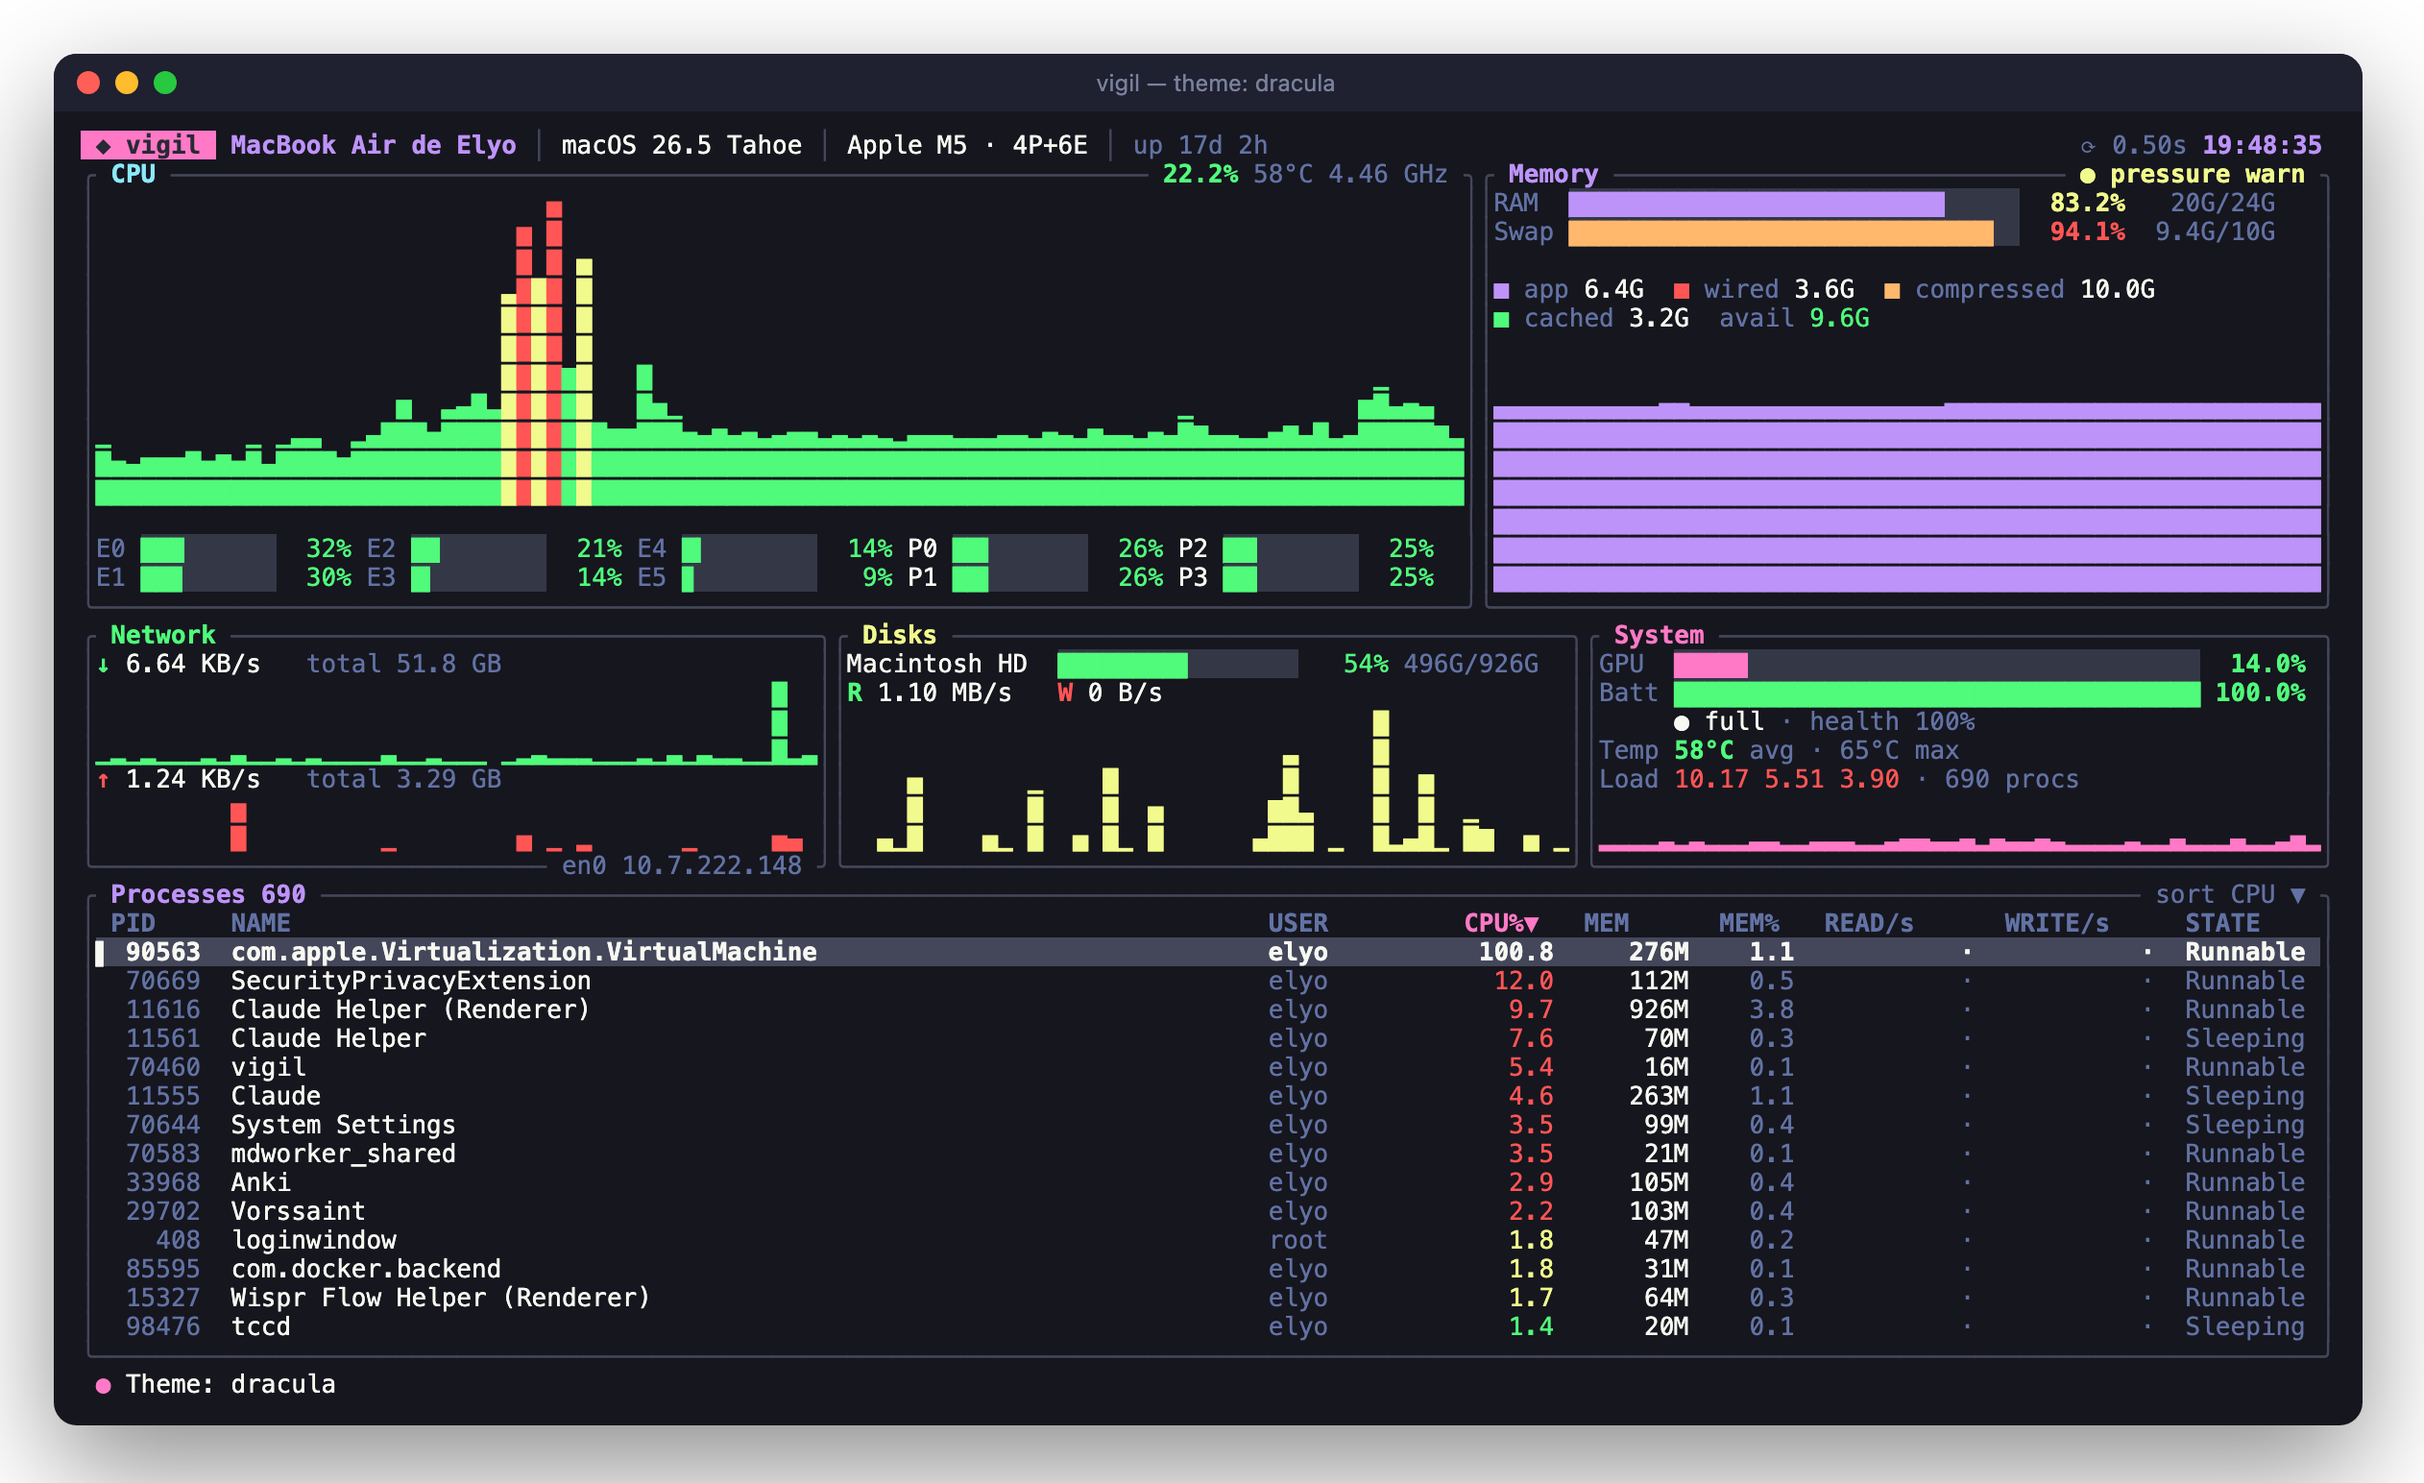
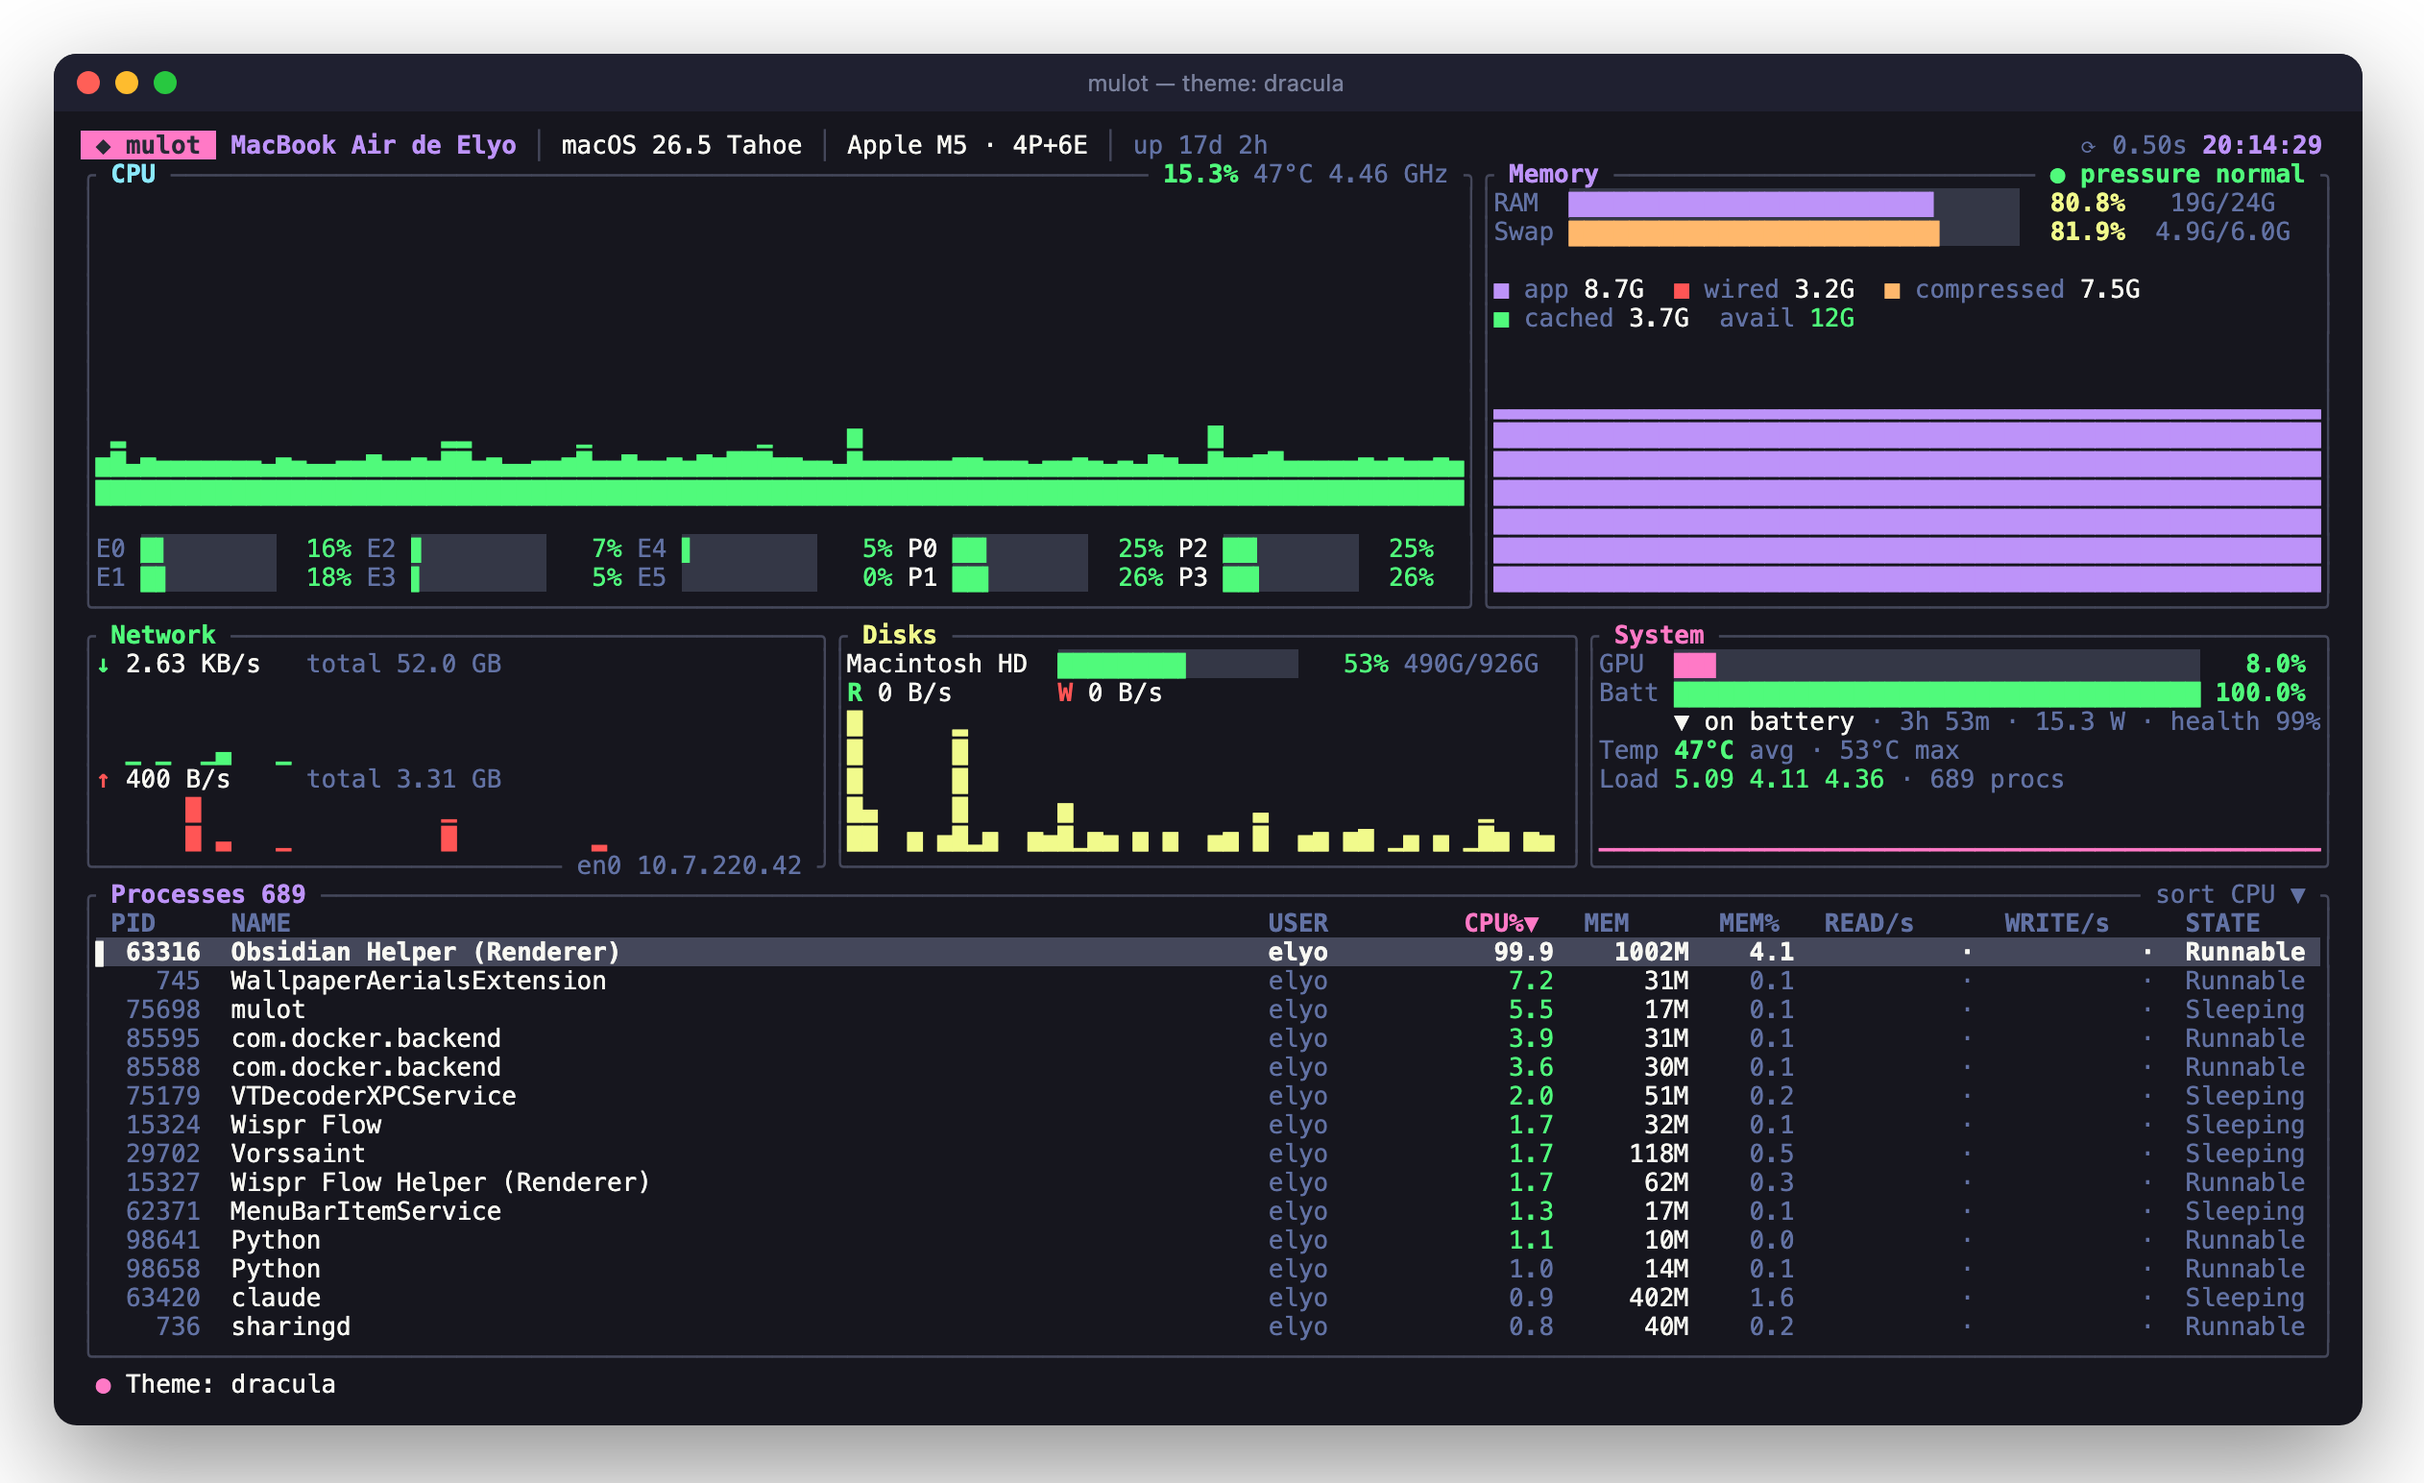
mulot 0.2.0: rename from vigil, auto-bump the Homebrew tap
- Binary, crate, formula, MULOT_THEME env var and JSON field renamed
- Release workflow pushes Formula/mulot.rb to ElyOgl/homebrew-tap via a
  tap-only write deploy key (TAP_DEPLOY_KEY) instead of a personal token
- CHANGELOG, refreshed screenshots

diff --git a/src/main.rs b/src/main.rs
@@ -1,4 +1,4 @@
-//! vigil: a fast, beautiful terminal system monitor.
+//! mulot: a fast, beautiful terminal system monitor.
 
 mod app;
 mod collector;
@@ -20,14 +20,14 @@ use crate::collector::{Collector, Sample, StaticInfo};
 use crate::theme::ThemeName;
 
 #[derive(Parser, Debug)]
-#[command(name = "vigil", version, about, long_about = None)]
+#[command(name = "mulot", version, about, long_about = None)]
 struct Cli {
     /// Refresh interval in milliseconds (250–10000).
     #[arg(short, long, default_value_t = 1000, value_parser = clap::value_parser!(u64).range(250..=10_000))]
     interval: u64,
 
     /// Color theme (default: auto-detected from the terminal).
-    #[arg(short, long, value_enum, env = "VIGIL_THEME")]
+    #[arg(short, long, value_enum, env = "MULOT_THEME")]
     theme: Option<ThemeName>,
 
     /// Initial process sort column.
@@ -45,7 +45,7 @@ struct Cli {
 
 #[derive(Serialize)]
 struct Report<'a> {
-    vigil_version: &'static str,
+    mulot_version: &'static str,
     system: &'a StaticInfo,
     #[serde(flatten)]
     sample: &'a Sample,
@@ -95,7 +95,7 @@ fn print_json(top: usize) -> Result<()> {
     sample.processes.sort_by(|a, b| b.cpu.total_cmp(&a.cpu));
     sample.processes.truncate(top);
     let report = Report {
-        vigil_version: env!("CARGO_PKG_VERSION"),
+        mulot_version: env!("CARGO_PKG_VERSION"),
         system: collector.info(),
         sample: &sample,
     };

diff --git a/src/ui.rs b/src/ui.rs
@@ -150,7 +150,7 @@ fn draw_header(f: &mut Frame, area: Rect, app: &App) {
             9,
             vec![
                 Span::styled(
-                    " ◆ vigil ",
+                    " ◆ mulot ",
                     Style::new()
                         .fg(t.accent_fg)
                         .bg(t.accent)
@@ -927,7 +927,7 @@ fn draw_help(f: &mut Frame, area: Rect, t: &Theme) {
     lines.push(Line::default());
     lines.push(
         Line::from(Span::styled(
-            format!("vigil {} · press any key", env!("CARGO_PKG_VERSION")),
+            format!("mulot {} · press any key", env!("CARGO_PKG_VERSION")),
             Style::new().fg(t.muted),
         ))
         .centered(),
@@ -999,7 +999,7 @@ mod tests {
     fn full_dashboard_renders_every_panel() {
         let screen = render(160, 48);
         for panel in [
-            "vigil",
+            "mulot",
             "CPU",
             "Memory",
             "Network",

diff --git a/src/collector.rs b/src/collector.rs
@@ -16,7 +16,7 @@ use sysinfo::{
 
 use crate::platform::{self, CoreTopology, MemBreakdown, Pressure};
 
-/// Facts that do not change while vigil runs.
+/// Facts that do not change while mulot runs.
 #[derive(Debug, Clone, Serialize)]
 pub struct StaticInfo {
     pub host: String,

diff --git a/README.md b/README.md
@@ -1,19 +1,21 @@
-# vigil
+# mulot
+
+> *mulot* (n., French): the wood mouse. Small, quick, and always watching.
 
 **A fast, beautiful terminal system monitor.** One 1.2 MB native binary that shows CPU (with Apple Silicon P/E cores), real memory pressure, GPU, disks, network, temperatures, battery and a sortable, filterable, killable process list. It is tuned for macOS and also runs on Linux and Windows.
 
-![vigil running on an Apple M5 MacBook Air](docs/screenshot.png)
+![mulot running on an Apple M5 MacBook Air](docs/screenshot.png)
 
 ```bash
-brew install ElyOgl/tap/vigil
-vigil
+brew install ElyOgl/tap/mulot
+mulot
 ```
 
 ## Why
 
-vigil started as a rebuild of [krishnapschauhan/terminal-system-monitor](https://github.com/krishnapschauhan/terminal-system-monitor), a 156-line Node.js + blessed dashboard. Taking it apart (see [docs/UPSTREAM-ANALYSIS.md](docs/UPSTREAM-ANALYSIS.md)) showed that it only really works on Windows. On macOS its memory gauge reports `os.freemem()` and reads **98.6 % used** on a machine with 10 GB available. Its disk panel shells out to `wmic` every second, a command that doesn't exist outside Windows. vigil keeps the idea of a colorful one-screen dashboard and rebuilds the rest from scratch.
+mulot started as a rebuild of [krishnapschauhan/terminal-system-monitor](https://github.com/krishnapschauhan/terminal-system-monitor), a 156-line Node.js + blessed dashboard. Taking it apart (see [docs/UPSTREAM-ANALYSIS.md](docs/UPSTREAM-ANALYSIS.md)) showed that it only really works on Windows. On macOS its memory gauge reports `os.freemem()` and reads **98.6 % used** on a machine with 10 GB available. Its disk panel shells out to `wmic` every second, a command that doesn't exist outside Windows. mulot keeps the idea of a colorful one-screen dashboard and rebuilds the rest from scratch.
 
-| | terminal-system-monitor | **vigil** |
+| | terminal-system-monitor | **mulot** |
 |---|---|---|
 | Runtime | Node.js + 60 npm packages | single static binary, no runtime |
 | Platforms | Windows (disk panel needs `wmic`) | macOS, Linux, Windows |
@@ -24,31 +26,31 @@ vigil started as a rebuild of [krishnapschauhan/terminal-system-monitor](https:/
 | GPU / sensors / battery | none | GPU utilisation (no sudo), CPU temperature, charge, state, health, power |
 | Processes | none | sortable, filterable table with per-process disk I/O; SIGTERM / SIGKILL with confirmation |
 | Controls | quit | pause, refresh speed, sort, filter, kill, 6 themes, help |
-| Scripting | none | `vigil --json` snapshot |
+| Scripting | none | `mulot --json` snapshot |
 
 ## Install
 
 **Homebrew** (macOS Apple Silicon and Intel, Linux x86_64 and arm64):
 
 ```bash
-brew install ElyOgl/tap/vigil
+brew install ElyOgl/tap/mulot
 ```
 
-**Prebuilt binaries:** download from [Releases](https://github.com/ElyOgl/vigil/releases), including a Windows `.zip`.
+**Prebuilt binaries:** download from [Releases](https://github.com/ElyOgl/mulot/releases), including a Windows `.zip`.
 
 **From source** (Rust 1.88+):
 
 ```bash
-cargo install --git https://github.com/ElyOgl/vigil
+cargo install --git https://github.com/ElyOgl/mulot
 ```
 
 ## Usage
 
 ```
-vigil [OPTIONS]
+mulot [OPTIONS]
 
   -i, --interval <MS>   Refresh interval in milliseconds (250–10000) [default: 1000]
-  -t, --theme <THEME>   aurora | nord | gruvbox | dracula | ansi | mono  [env: VIGIL_THEME]
+  -t, --theme <THEME>   aurora | nord | gruvbox | dracula | ansi | mono  [env: MULOT_THEME]
   -s, --sort <KEY>      Initial process sort: cpu | mem | io | pid | name [default: cpu]
       --json            Print one JSON snapshot of the whole system and exit
       --top <N>         Processes to include in --json output [default: 15]
@@ -72,20 +74,20 @@ vigil [OPTIONS]
 ### JSON snapshot
 
 ```bash
-vigil --json --top 5 | jq '{cpu: .cpu.total, pressure: .memory.pressure, gpu: .gpu.usage}'
+mulot --json --top 5 | jq '{cpu: .cpu.total, pressure: .memory.pressure, gpu: .gpu.usage}'
 ```
 
 The output contains system info, CPU per core, memory with breakdown and pressure, disks, I/O rates, network interfaces, GPU, sensors, battery and the top processes. It's handy for scripts, status bars and alerts.
 
 ## Themes
 
-`aurora` (default on truecolor terminals), `nord`, `gruvbox`, `dracula`, `ansi` (default elsewhere, uses only the 16 standard colors) and `mono`. Cycle live with `t`, or pin one with `VIGIL_THEME=nord`.
+`aurora` (default on truecolor terminals), `nord`, `gruvbox`, `dracula`, `ansi` (default elsewhere, uses only the 16 standard colors) and `mono`. Cycle live with `t`, or pin one with `MULOT_THEME=nord`.
 
 ![dracula theme](docs/screenshot-dracula.png)
 
 ## How it gets the numbers
 
-Everything is read in-process. vigil never shells out.
+Everything is read in-process. mulot never shells out.
 
 - **Memory pressure:** `kern.memorystatus_vm_pressure_level` on macOS, PSI `/proc/pressure/memory` on Linux.
 - **Memory breakdown:** `host_statistics64` (app = internal − purgeable, wired, compressed, cached files) on macOS, `/proc/meminfo` on Linux.
@@ -96,11 +98,13 @@ Everything is read in-process. vigil never shells out.
 
 ## Releasing
 
-Push a tag (`git tag v0.2.0 && git push --tags`). GitHub Actions builds macOS (arm64, x86_64), Linux musl (x86_64, arm64) and Windows, then attaches the archives and checksums to the release. If the repo has a `HOMEBREW_TAP_TOKEN` secret (a token with write access to `ElyOgl/homebrew-tap`), it also bumps the formula. Without the secret, run `scripts/formula.sh` by hand.
+Bump `version` in `Cargo.toml`, then push a tag (`git tag v0.3.0 && git push origin main --tags`). GitHub Actions builds macOS (arm64, x86_64), Linux musl (x86_64, arm64) and Windows, attaches the archives and checksums to the release, and then commits the new formula to [ElyOgl/homebrew-tap](https://github.com/ElyOgl/homebrew-tap). The tap push goes through a write deploy key that only works on the tap repo (secret `TAP_DEPLOY_KEY`). No personal token is involved.
+
+> Formerly **vigil**. The name changed in 0.2.0, and `brew upgrade` migrates an existing `vigil` install automatically.
 
 ## Credits
 
-Inspired by [terminal-system-monitor](https://github.com/krishnapschauhan/terminal-system-monitor) by Krishna Chauhan (MIT). vigil is a from-scratch reimplementation in Rust built on [ratatui](https://ratatui.rs), [sysinfo](https://crates.io/crates/sysinfo) and [starship-battery](https://crates.io/crates/starship-battery).
+Inspired by [terminal-system-monitor](https://github.com/krishnapschauhan/terminal-system-monitor) by Krishna Chauhan (MIT). mulot is a from-scratch reimplementation in Rust built on [ratatui](https://ratatui.rs), [sysinfo](https://crates.io/crates/sysinfo) and [starship-battery](https://crates.io/crates/starship-battery).
 
 ## License
 

diff --git a/docs/UPSTREAM-ANALYSIS.md b/docs/UPSTREAM-ANALYSIS.md
@@ -1,6 +1,6 @@
 # Upstream analysis: terminal-system-monitor
 
-Analysis of [krishnapschauhan/terminal-system-monitor](https://github.com/krishnapschauhan/terminal-system-monitor) at commit `ffefb79`, done with [rea](https://github.com/morluto/rea) (static JavaScript application graph) plus controlled checks on an Apple M5 MacBook Air running macOS 26.5. This is the groundwork vigil was designed from.
+Analysis of [krishnapschauhan/terminal-system-monitor](https://github.com/krishnapschauhan/terminal-system-monitor) at commit `ffefb79`, done with [rea](https://github.com/morluto/rea) (static JavaScript application graph) plus controlled checks on an Apple M5 MacBook Air running macOS 26.5. This is the groundwork mulot was designed from.
 
 ## What it is
 
@@ -20,7 +20,7 @@ Analysis of [krishnapschauhan/terminal-system-monitor](https://github.com/krishn
 
 ## Findings
 
-| # | Finding | Evidence | vigil |
+| # | Finding | Evidence | mulot |
 |---|---|---|---|
 | 1 | **Memory is wrong on macOS.** `used = totalmem − freemem` counts file cache and compressed pages as used. | On the test Mac it reported **98.6 % used** while `vm_stat` showed ~10 GB reclaimable. The real state was kernel pressure *warn* with 9.6 / 10 GB swap in use, and the dashboard can't show either. | Uses Activity Monitor's formula (app + wired + compressed), shows kernel pressure, swap and a breakdown |
 | 2 | **The disk panel only works on Windows**, and only where `wmic` still exists. Microsoft deprecated it and removes it in recent Windows 11 builds. | `command -v wmic` → not found, so the panel permanently says "Disk data unavailable" on macOS/Linux | Reads volumes in-process on every OS and de-duplicates APFS containers |
@@ -32,6 +32,6 @@ Analysis of [krishnapschauhan/terminal-system-monitor](https://github.com/krishn
 | 8 | **No controls** besides quit, and a hard-coded window title ("Krishna System Monitor"). | `screen.key(["escape","q","C-c"])` is the only listener | Pause, speed, sort, filter, kill, themes, help, CLI flags, JSON output |
 | 9 | **Chalk escape codes inside blessed widgets.** Table column widths are computed on strings that contain ANSI codes, so columns can misalign. | `colorPercent()` output passed to `contrib.table` | Styles are attributes on cells, never inline escape codes |
 
-## What vigil keeps
+## What mulot keeps
 
 The concept: one screen, color-coded thresholds (green / yellow / red), a CPU history graph, per-core usage, memory, disks and system info, with `q`/`esc` to quit.

diff --git a/CHANGELOG.md b/CHANGELOG.md
@@ -1,0 +1,8 @@
+# Changelog
+
+## 0.2.0
+- **Renamed from `vigil` to `mulot`.** The binary, formula (`brew install ElyOgl/tap/mulot`), environment variable (`MULOT_THEME`) and JSON field (`mulot_version`) all follow the new name. Existing Homebrew installs migrate on `brew upgrade`.
+- Releases now update the Homebrew tap automatically.
+
+## 0.1.0
+- First release (as `vigil`): CPU with Apple Silicon P/E cores, Activity Monitor-accurate memory with kernel pressure, disks, network, GPU, sensors, battery, process table with kill, 6 themes, `--json`.
